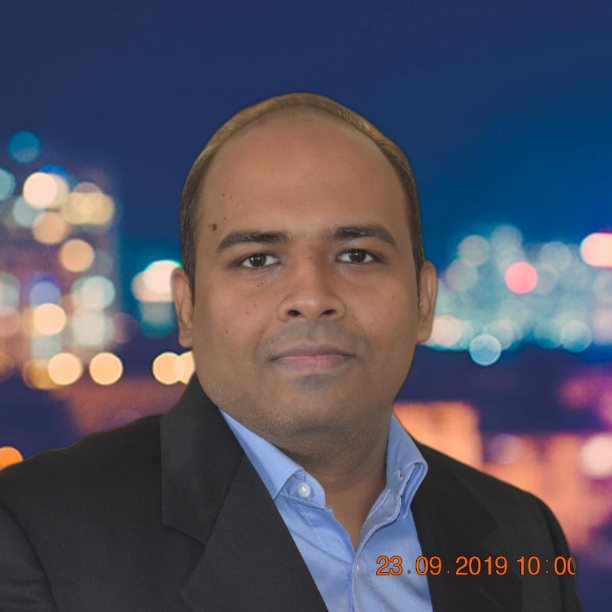
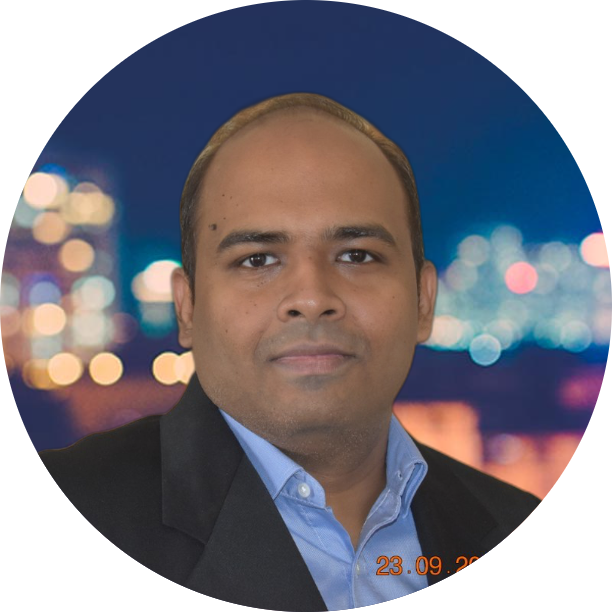
Updated layout of speaker page
- Updated layout of speaker page
  - Added information for Mahendra's talk

diff --git a/conference/2022/schedule.md b/conference/2022/schedule.md
@@ -16,7 +16,7 @@ cppindiaconsponsors: true
 | 09:30 - 09:45 |  **Introduction** | CppIndia Hosts | Welcome, familiarisation with the conference setup and Networking tools.
 | 09:45 - 10:45 |  **Customization Methods: Connecting User And Library Code** | [Inbal Levi](/conference/2022/speakers/inbal/) | The interface between a library and its users is a major design consideration for every developer, and has been evolving greatly over C++’s lifetime. In this talk we will go over different methods for connecting generic library code with user-side specific code, commonly known as Customization Points. We will cover the benefits and downsides of different methods (including CTS, ADL, Concepts, CTOs, and the latest to be considered - tag_invoke), and present future directions for these mechanisms.<br>At the end of the talk, you’ll be familiar with the terminology and developments in this field, including the ones planned for C++23 and C++26. |
 | 10:45 - 11:15 |  30 min Break & Networking |  | 
-| 11:15 - 12:15 |  **Default Generated Comparison for Your Data Types** | [Mahendra Garodi](/conference/2022/speakers/mahendra/) |  |
+| 11:15 - 12:15 |  **Default Generated Comparison for Your Data Types** | [Mahendra Garodi](/conference/2022/speakers/mahendra/) | Prior to C++20, creating a user-defined data type that supports all comparison operators involved a lot of boilerplate code. For all six comparison operators to be supported, they must be implemented individually. The C++20 standard introduced two features to simplify comparisons of user defined data types. The first is the space ship operator, which enables three-way comparisons. Using a three-way comparison implementation, the compiler rewrites the other comparison operator. The second feature is default comparison. The compiler provides a default implementation of the space-ship operator if the opt-in feature is selected. Our goal in this talk is to study the space-ship operator and how the default implementation for the space-ship operator is generated. We will also look at how space-ship operators are used to rewrite other comparison expressions. |
 | 12:15 - 13:15 |  Lunch & Networking |  | 
 | 13:15 - 14:15 |  **Concurrency with Reactor Pattern** | [Selvakumar Jawahar](/conference/2022/speakers/selvakumar/) | We designed a high-performance reactor framework to collect network metrics from different network nodes. This talk is about the high-level design of this single-threaded framework, which helps us gather 100's thousands of data points per second. |
 | 14:15 - 14:45 |  30 min break | | 

diff --git a/conference/2022/speakers/speakers.md b/conference/2022/speakers/speakers.md
@@ -10,15 +10,23 @@ registerforCppIndiaCon: true
 joinCppIndia: false
 cppindiaconsponsors: true
 ---
-
+<style type="text/css" rel="stylesheet">
+thead { visibility: hidden; }
+img { max-width:80%; width:200px; }
+thead { border:none; }
+td { border:none; }
+</style>
+|  |  |   |
 |:----:|:----:|:----:|
-|  |  |  |
 | [![Inbal Levi](/conference/2022/graphics/inbal.png "Inbal Levi")](/conference/2022/speakers/inbal/) | [![Mahendra Garodi](/conference/2022/graphics/mahendra.png "Mahendra Garodi")](/conference/2022/speakers/mahendra/) | [![Selvakumar Jawahar](/conference/2022/graphics/selvakumar.png "Selvakumar Jawahar")](/conference/2022/speakers/selvakumar/) |
 | [Inbal Levi](/conference/2022/speakers/inbal/) | [Mahendra Garodi](/conference/2022/speakers/mahendra/) | [Selvakumar Jawahar](/conference/2022/speakers/selvakumar/) |
-|  |  |  |
-| [![Dr. Greg Law](/conference/2022/graphics/greg.png "Dr. Greg Law")](/conference/2022/speakers/greg/) | [![Ankur M Satle](/conference/2022/graphics/ankur.png "Ankur M Satle")](/conference/2022/speakers/ankur/) |  |
-| [Dr. Greg Law](/conference/2022/speakers/greg/) | [Ankur M Satle](/conference/2022/speakers/ankur/) |  |
+{:style="display:inline-table"}
 
+|  |  |
+|:----:|:----:|
+| [![Dr. Greg Law](/conference/2022/graphics/greg.png "Dr. Greg Law")](/conference/2022/speakers/greg/) | [![Ankur M Satle](/conference/2022/graphics/ankur.png "Ankur M Satle")](/conference/2022/speakers/ankur/) |
+| [Dr. Greg Law](/conference/2022/speakers/greg/) | [Ankur M Satle](/conference/2022/speakers/ankur/) |
+{:style="display:inline-table"}
 <pre>
 
 

diff --git a/conference/2022/speakers/mahendra.md b/conference/2022/speakers/mahendra.md
@@ -9,7 +9,54 @@ registerforCppIndiaCon: true
 joinCppIndia: false
 cppindiaconsponsors: true
 ---
+![Mahendra Garodi](/conference/2022/graphics/mahendra.png "Mahendra Garodi"){:style="max-width:50%"}
 
-![Mahendra Garodi](/conference/2022/graphics/mahendra.png "Mahendra Garodi")
+**Mahendra Garodi** has over 8 years of experience developing **virtual platforms** in the semiconductor industry. As part of his work, he has modeled **functional and microarchitectural details of CPUs, memories, and peripheral components in SoCs**. In addition to being an active member of the CPPIndia community, he has given talks on a wide range of topics including **performance evaluation, SIMD architecture** and various other features of modern C++. **A passionate teacher**, he teaches subjects including C, C++, Python, Data Structures, and Mathematics.
+
+[![LinkedIn](/assets/images/linkedin.png "Mahendra Garodi")](https://www.linkedin.com/in/garodimahendra){:target="_blank"}
+[![Twitter](/assets/images/twitter.png "Mahendra Garodi")](https://twitter.com/garodimahendra){:target="_blank"}
+<pre>
 
 
+
+
+
+
+
+
+
+
+
+
+
+
+
+
+
+
+
+
+
+
+
+
+
+
+
+
+
+
+
+
+
+
+
+
+
+
+
+
+
+
+
+</pre>

diff --git a/conference/2022/speakers/greg.md b/conference/2022/speakers/greg.md
@@ -10,6 +10,6 @@ joinCppIndia: false
 cppindiaconsponsors: true
 ---
 
-![Dr Greg Law](/conference/2022/graphics/greg.png "Dr Greg Law")
+![Dr Greg Law](/conference/2022/graphics/greg.png "Dr Greg Law"){:style="max-width:50%"}
 
 **Dr Greg Law** is the founder of *Undo*. Greg has over 20 years experience in the software industry and has held development and management roles at companies including the pioneering British computer firm Acorn, as well as fast-growing start ups like NexWave and Solarflare. Greg was determined to build a tool to help developers ease the pain of debugging complex software, so he founded Undo from his garden shed back in 2012. Undo is now established as the time travel debugging company for Linux software development. Learn more at [undo.io](http://undo.io/){:target="_blank"}

diff --git a/conference/2022/speakers/selvakumar.md b/conference/2022/speakers/selvakumar.md
@@ -10,6 +10,6 @@ joinCppIndia: false
 cppindiaconsponsors: true
 ---
 
-![Selvakumar Jawahar](/conference/2022/graphics/selvakumar.png "Selvakumar Jawahar")
+![Selvakumar Jawahar](/conference/2022/graphics/selvakumar.png "Selvakumar Jawahar"){:style="max-width:50%"}
 
 **Selvakumar Jawahar** is working as a Senior Software Engineer at Juniper Networks, where he builds advanced network assurance tools. In a career spanning 19+ years, Selvakumar has designed high-performance embedded systems, engineered large-scale enterprise software, and designed real-time web applications. Selvakumar deeply cares about building exceptional quality and high-performance software systems. Selvakumar enjoys programing with C++ the most among the many languages he uses. 

diff --git a/conference/2022/speakers/ankur.md b/conference/2022/speakers/ankur.md
@@ -10,7 +10,7 @@ joinCppIndia: false
 cppindiaconsponsors: true
 ---
 
-![Ankur Satle](/conference/2022/graphics/ankur.png "Ankur Satle")
+![Ankur Satle](/conference/2022/graphics/ankur.png "Ankur Satle"){:style="max-width:50%"}
 
 **Ankur Satle** is an **Architect** working on **Telecom products** at [EXFO](https://www.exfo.com/){:target="_blank"}. He has extensively worked on **high-performance 3G/4G/5G/IMS/VoIP products, Network Monitoring, OSS/BSS** monolith & distributed systems in his 19+ years of experience. He is currently exploring some new technology to build a Smart Data Platform for 5G/4G/3G Service Assurance & Network Monitoring. 
 

diff --git a/conference/2022/speakers/inbal.md b/conference/2022/speakers/inbal.md
@@ -10,7 +10,7 @@ joinCppIndia: false
 cppindiaconsponsors: true
 ---
 
-![Inbal Levi](/conference/2022/graphics/inbal.png "Inbal Levi")
+![Inbal Levi](/conference/2022/graphics/inbal.png "Inbal Levi"){:style="max-width:50%"}
 
 **Inbal Levi** is an embedded software engineer with a passion for high performance.
 She is a director at **ISO C++ foundation**, **co chair of Library Evolution**, **chair of SG9 (Ranges group) of the C++ Standards Committee** and of the ISO C++ Israeli NB, and one of the organizers of CoreCpp conference and user group.
